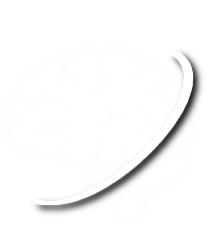
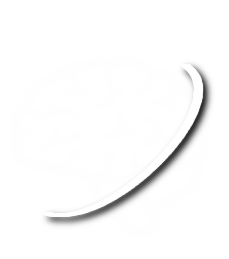
fixed brainz

Changed region(s): [[0.1731, 0.2085, 0.9808, 0.9234]]

diff --git a/index.html b/index.html
@@ -45,9 +45,7 @@
 
 				<!-- Header -->
 					<header id="header">
-						<div class="logo">
-							<img src="images/brain2.png" width="70" alt="AI"/>
-						</div>
+							<img class="logo" src="images/brain2.png" alt="AI"/>
 						<div class="content">
 							<div class="inner">
 								<img width="300" src="images/AIKO_logo_white.png" alt="we do space AI!"/>
